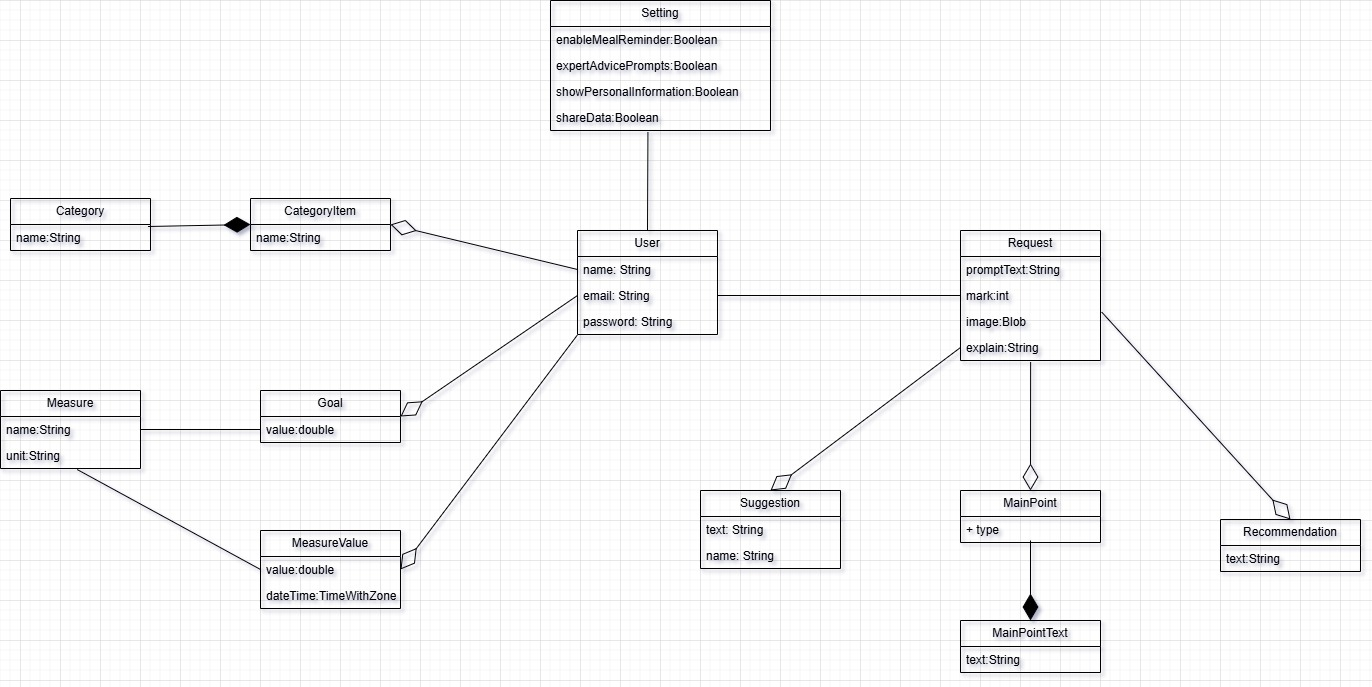
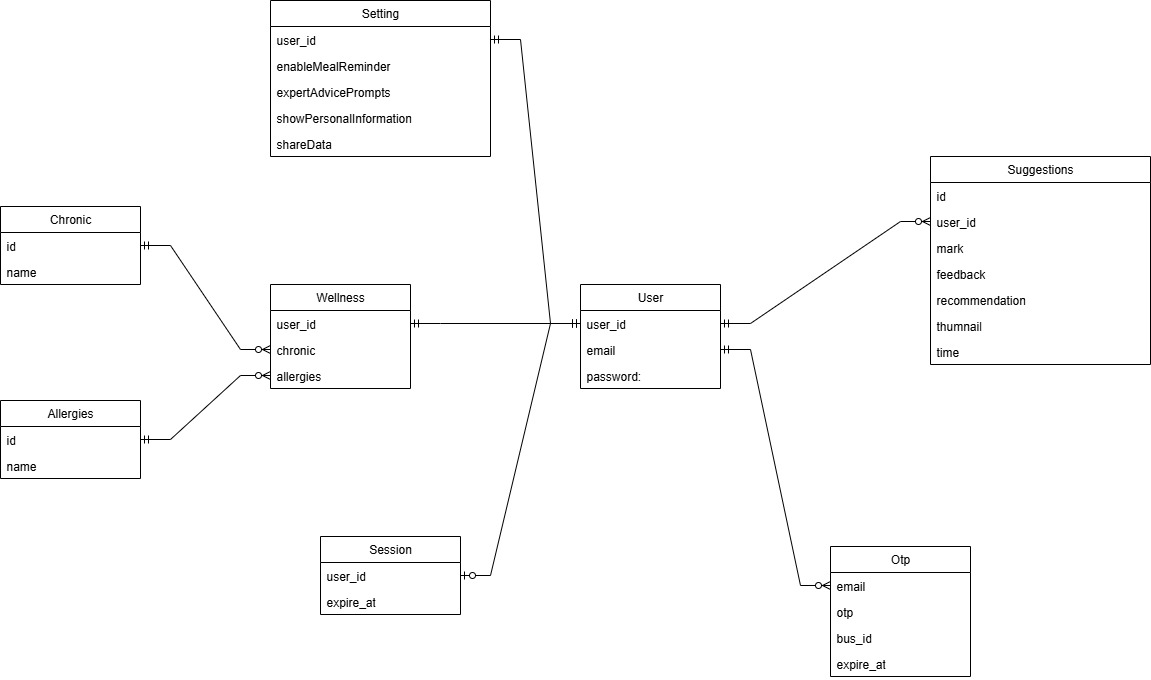
rephrase domain part

diff --git a/README.md b/README.md
@@ -2,9 +2,9 @@
 
 Nutri Pilot is a full-stack SaaS platform that helps fitness studios and wellness coaches generate personalized meal plans and track client nutrition compliance.
 
-## Live Demo 
+## Demos
 
-- Demo: https://www.youtube.com/watch?v=PpI3tH1lzD8
+- Live Demo: https://www.youtube.com/watch?v=PpI3tH1lzD8 (YouTube walkthrough, 3min)
 - GitHub Repo: 
   - https://github.com/tie0913/nuitri_pilot_frontend
   - https://github.com/tie0913/nuitri_pilot_backend
@@ -23,35 +23,26 @@ Nutri Pilot is a full-stack SaaS platform that helps fitness studios and wellnes
 
 ![Architecture](./images/Architecture.jpg)
 
-## Unified Domain Model
+## Unified Domain Model（E-R View）
 
 ![Unified Domain Model](./images/Domain.jpg)
 
-This diagram represents the core business entities of Nutri Pilot and how they interact
-to support user management, nutrition tracking, and AI-powered advice generation.
-
-Rather than focusing on infrastructure-level concerns, the model captures the essential
-domain concepts required for the current MVP stage.
+This diagram represents the core business entities of Nutri Pilot and how they collaborate to support authentication, password recovery, and AI-powered nutrition
+advice generation. Rather than focusing on physical database design, the model captures the essential domain concepts that drive the current MVP.
 
 ### Design Highlights
 
-- **User** is the central aggregate root, connecting preferences, goals, health measures,
-  and all AI-generated content.
-- **Measure** and **MeasureValue** are separated to support historical data tracking
-  without duplicating measurement definitions.
-- **Request**, **Suggestion**, and **Recommendation** form a clear pipeline from
-  raw user input to actionable advice.
-- **Setting** is modeled as a lightweight extension to the user profile to isolate
-  feature configuration from core business logic.
+- **User** is the central aggregate root, representing account identity and linking to all security, wellness, and AI-generated data.
+- **Wellness** encapsulates the user’s health context and aggregates structured medical information such as **Chronic** conditions and **Allergies**, allowing the health profile to evolve without impacting core user data.
+- **Session** and **Otp** are modeled as independent security entities to clearly separate authentication state and one-time verification flows.
+- **Suggestions** represents persisted AI advice records, forming the final output of the AI interaction pipeline.
 
-This unified domain model serves as the foundation for all key workflows,
-including authentication, password recovery, and AI-powered recommendation generation.
+This unified domain model serves as the foundation for all critical workflows, including authentication, password recovery, and AI-powered nutrition guidance.
 
 
 ## Core Workflow & Design Decisions
 
-Before implementation, I designed key system workflows to ensure security, scalability, and maintainability.
-Only the most critical flows are documented here.
+Before implementation, I designed key system workflows to ensure security, scalability, and maintainability. Only the most critical flows are documented here.
 
 ### 1. Reset Password – Secure Identity Recovery
 
@@ -94,12 +85,7 @@ Only the most critical flows are documented here.
 
 Nutri Pilot does not maintain long-lived AI sessions.
 
-Instead, only the user’s chronic conditions and allergy information are stored as
-structured fields in the database.
-
-When the user submits a food image, these fields are sent together with the image
-to the AI model. This avoids keeping long conversational context in memory and keeps
-the backend stateless.
+Instead, only the user’s chronic conditions and allergy information are stored as structured fields in the database. When the user submits a food image, these fields are sent together with the image to the AI model. This avoids keeping long conversational context in memory and keeps the backend stateless.
 
 ### Image Handling Strategy
 
